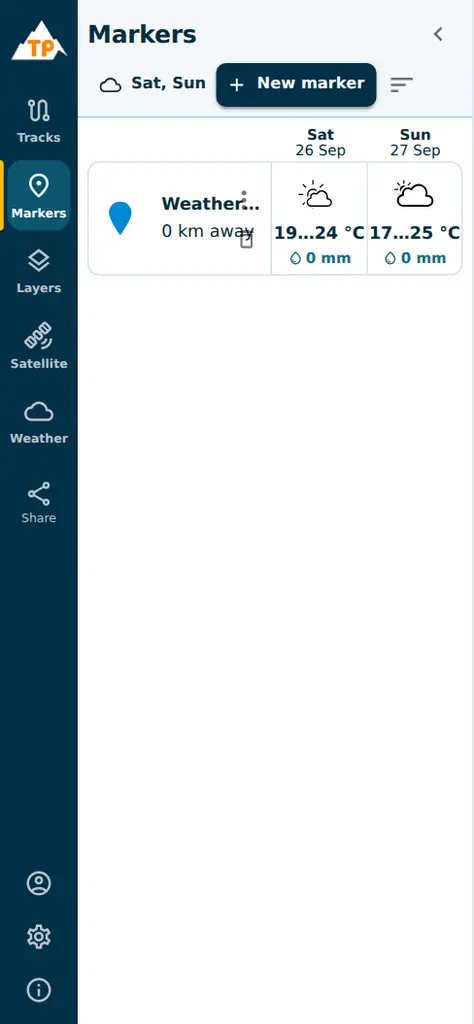
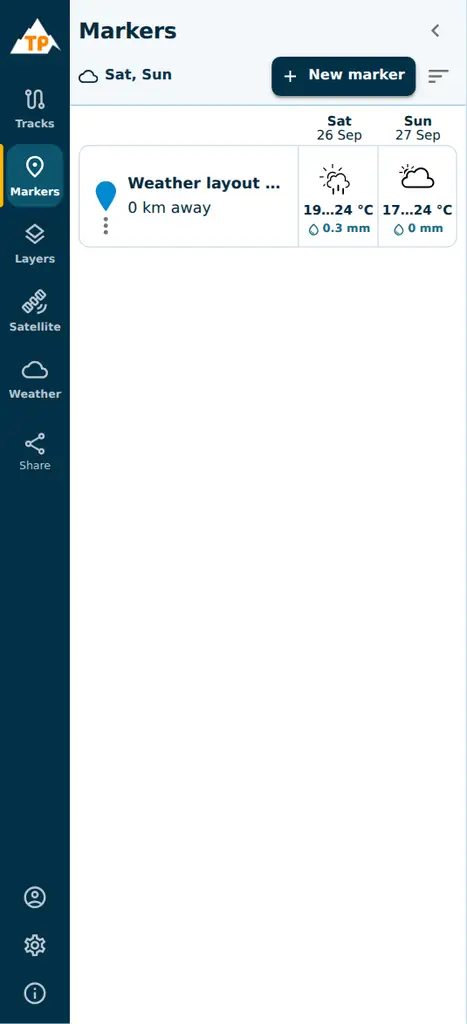
fix(markers): refine compact weather layout

Changed region(s): [[0.0, 0.0, 1.0, 1.0]]

diff --git a/src/presentation/markers/MarkersWorkspace.tsx b/src/presentation/markers/MarkersWorkspace.tsx
@@ -115,7 +115,7 @@ interface MarkerHourlyForecastRequest {
 const markerWeatherRequestConcurrency = 4;
 const markerWeatherCellWidth = 80;
 const markerWeatherCellHeight = 92;
-const markerWeatherPhoneCellWidth = 78;
+const markerWeatherPhoneCellWidth = 72;
 
 interface MarkersWorkspaceValue {
   readonly markers: readonly SavedMarker[];
@@ -958,6 +958,9 @@ export function MarkerWeatherSummaryButton({
           lineHeight: map ? 1.1 : 1.2,
           whiteSpace: 'nowrap',
           fontVariantNumeric: 'tabular-nums',
+          '@media (width < 900px)': map
+            ? undefined
+            : { fontSize: '0.75rem', lineHeight: 1.1 },
         }}
       >
         {temperature}
@@ -980,6 +983,9 @@ export function MarkerWeatherSummaryButton({
             lineHeight: map ? 1.1 : 1.2,
             whiteSpace: 'nowrap',
             fontVariantNumeric: 'tabular-nums',
+            '@media (width < 900px)': map
+              ? undefined
+              : { fontSize: '0.65rem', lineHeight: 1.1 },
           }}
         >
           {precipitation}
@@ -1046,6 +1052,27 @@ export function MarkersPanel({ onMarkerSelected }: MarkersPanelProps) {
         error instanceof Error ? error.message : 'The marker could not be renamed.',
       );
     }
+  };
+
+  const requestDelete = (marker: SavedMarker) => {
+    if (pendingDeleteId !== marker.id) {
+      setPendingDeleteId(marker.id);
+      return;
+    }
+    setDeletingId(marker.id);
+    setDeleteError(null);
+    setActionAnchor(null);
+    setActionMarker(null);
+    void deleteMarker(marker)
+      .catch((error: unknown) => {
+        setDeleteError(
+          error instanceof Error ? error.message : 'The marker could not be deleted.',
+        );
+      })
+      .finally(() => {
+        setDeletingId(null);
+        setPendingDeleteId(null);
+      });
   };
 
   return (
@@ -1203,7 +1230,7 @@ export function MarkersPanel({ onMarkerSelected }: MarkersPanelProps) {
               <ClickAwayListener
                 key={marker.id}
                 onClickAway={() => {
-                  if (deletingId !== marker.id) {
+                  if (deletingId !== marker.id && actionMarker?.id !== marker.id) {
                     setPendingDeleteId((current) =>
                       current === marker.id ? null : current,
                     );
@@ -1275,11 +1302,10 @@ export function MarkersPanel({ onMarkerSelected }: MarkersPanelProps) {
                   >
                     <Stack
                       direction="row"
-                      spacing={1.25}
+                      spacing={{ xs: 0.5, md: 1.25 }}
                       sx={{
                         alignItems: 'center',
                         minWidth: 0,
-                        '@media (width < 900px)': { gap: 0.75 },
                       }}
                     >
                       <Box
@@ -1290,6 +1316,10 @@ export function MarkersPanel({ onMarkerSelected }: MarkersPanelProps) {
                           flex: '0 0 36px',
                           display: 'grid',
                           placeItems: 'center',
+                          '@media (width < 900px)': {
+                            width: 32,
+                            flexBasis: 32,
+                          },
                         }}
                       >
                         <PinheadIcon svg={icon.svg} color={color.value} size={28} />
@@ -1400,14 +1430,23 @@ export function MarkersPanel({ onMarkerSelected }: MarkersPanelProps) {
                       px: 0.5,
                       transform: 'translateY(-50%)',
                       '@media (width < 900px)': {
-                        right:
-                          weatherPreferences.weekdays.length *
-                            markerWeatherPhoneCellWidth +
-                          4,
-                        flexDirection:
-                          weatherPreferences.weekdays.length === 0 ? 'row' : 'column',
-                        gap: weatherPreferences.weekdays.length === 0 ? 0.5 : 0,
-                        px: 0.25,
+                        ...(weatherPreferences.weekdays.length === 0
+                          ? {
+                              right: 4,
+                              flexDirection: 'row',
+                              gap: 0.5,
+                              px: 0.25,
+                            }
+                          : {
+                              top: 'auto',
+                              right: 'auto',
+                              bottom: 2,
+                              left: 7,
+                              flexDirection: 'row',
+                              gap: 0,
+                              px: 0,
+                              transform: 'none',
+                            }),
                       },
                     }}
                   >
@@ -1445,6 +1484,14 @@ export function MarkersPanel({ onMarkerSelected }: MarkersPanelProps) {
                         }
                         color={pending ? 'error' : 'default'}
                         disabled={deleting}
+                        sx={{
+                          '@media (width < 900px)': {
+                            display:
+                              weatherPreferences.weekdays.length === 0
+                                ? 'inline-flex'
+                                : 'none',
+                          },
+                        }}
                         onKeyDown={(event) => {
                           if (event.key === 'Escape' && deletingId !== marker.id) {
                             setPendingDeleteId(null);
@@ -1452,24 +1499,7 @@ export function MarkersPanel({ onMarkerSelected }: MarkersPanelProps) {
                           }
                         }}
                         onClick={() => {
-                          if (!pending) {
-                            setPendingDeleteId(marker.id);
-                            return;
-                          }
-                          setDeletingId(marker.id);
-                          setDeleteError(null);
-                          void deleteMarker(marker)
-                            .catch((error: unknown) => {
-                              setDeleteError(
-                                error instanceof Error
-                                  ? error.message
-                                  : 'The marker could not be deleted.',
-                              );
-                            })
-                            .finally(() => {
-                              setDeletingId(null);
-                              setPendingDeleteId(null);
-                            });
+                          requestDelete(marker);
                         }}
                       >
                         {pending ? (
@@ -1490,6 +1520,11 @@ export function MarkersPanel({ onMarkerSelected }: MarkersPanelProps) {
         anchorEl={actionAnchor}
         open={actionMarker !== null}
         onClose={() => {
+          if (actionMarker !== null && deletingId !== actionMarker.id) {
+            setPendingDeleteId((current) =>
+              current === actionMarker.id ? null : current,
+            );
+          }
           setActionAnchor(null);
           setActionMarker(null);
         }}
@@ -1511,6 +1546,31 @@ export function MarkersPanel({ onMarkerSelected }: MarkersPanelProps) {
           }}
         >
           <PaletteIcon fontSize="small" sx={{ mr: 1 }} /> Change icon and color
+        </MenuItem>
+        <MenuItem
+          disabled={actionMarker !== null && deletingId === actionMarker.id}
+          sx={{
+            display: 'none',
+            '@media (width < 900px)': {
+              display: weatherPreferences.weekdays.length === 0 ? 'none' : 'flex',
+            },
+            color:
+              actionMarker !== null && pendingDeleteId === actionMarker.id
+                ? 'error.main'
+                : 'inherit',
+          }}
+          onClick={() => {
+            if (actionMarker !== null) requestDelete(actionMarker);
+          }}
+        >
+          {actionMarker !== null && pendingDeleteId === actionMarker.id ? (
+            <DeleteForeverOutlinedIcon fontSize="small" sx={{ mr: 1 }} />
+          ) : (
+            <DeleteOutlineIcon fontSize="small" sx={{ mr: 1 }} />
+          )}
+          {actionMarker !== null && pendingDeleteId === actionMarker.id
+            ? 'Confirm deletion'
+            : 'Delete marker'}
         </MenuItem>
       </Menu>
     </Stack>

diff --git a/src/presentation/shell/WorkspaceSidebar.tsx b/src/presentation/shell/WorkspaceSidebar.tsx
@@ -353,6 +353,7 @@ export function WorkspaceSidebar({
               minWidth: 0,
               gridColumn: compactMarkersHeader ? '1 / -1' : undefined,
               gridRow: compactMarkersHeader ? 2 : undefined,
+              ml: compactMarkersHeader ? '0 !important' : undefined,
             }}
           >
             <Tooltip
@@ -382,8 +383,11 @@ export function WorkspaceSidebar({
                 startIcon={<WbCloudyOutlinedIcon fontSize="small" />}
                 sx={{
                   minWidth: 0,
-                  px: compactMarkersHeader ? 0.5 : 1,
+                  px: compactMarkersHeader ? 0 : 1,
                   whiteSpace: 'nowrap',
+                  '& .MuiButton-startIcon': compactMarkersHeader
+                    ? { ml: 0, mr: 0.75 }
+                    : undefined,
                 }}
                 onClick={openWeatherSettings}
               >
@@ -392,6 +396,7 @@ export function WorkspaceSidebar({
                   : ''}
               </Button>
             </Tooltip>
+            {compactMarkersHeader ? <Box aria-hidden sx={{ flex: 1 }} /> : null}
             <Tooltip
               title={
                 canCreateMarkers ? 'Place a marker on the map' : markerCreationMessage
